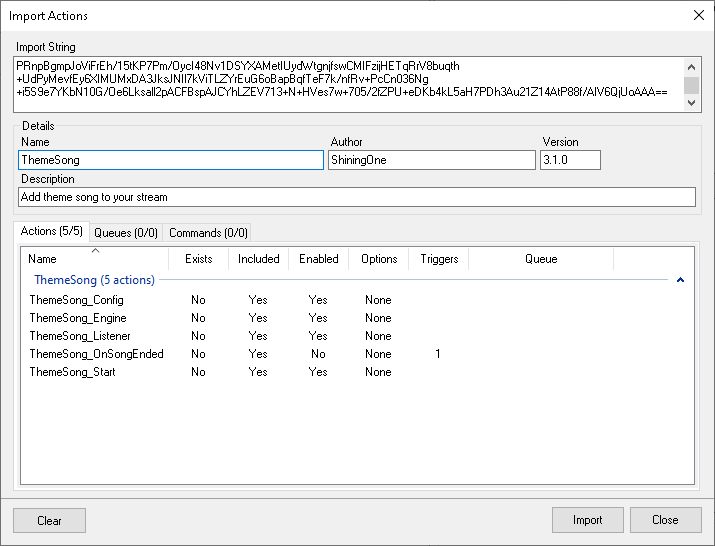
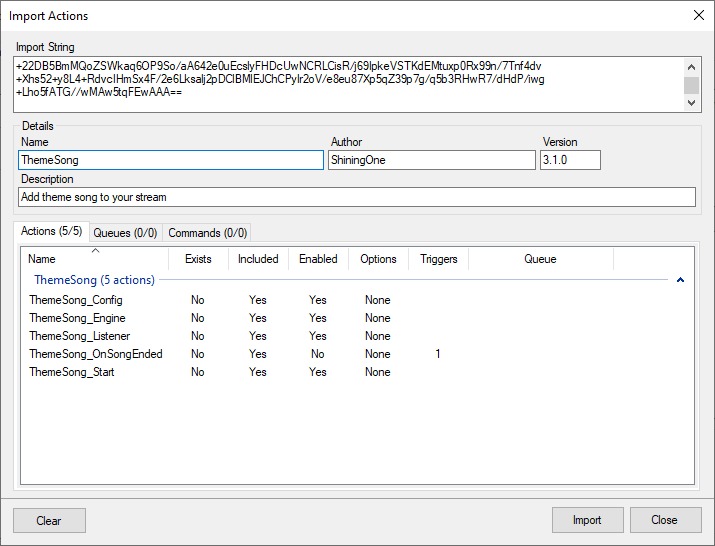
ws4 version

diff --git a/cs/ThemeSong_Engine.cs b/cs/ThemeSong_Engine.cs
@@ -4,6 +4,7 @@ using System.Threading;
 using System.Linq;
 using System.IO;
 using Newtonsoft.Json;
+using System.Collections.Generic;
 
 class OBSRequest
 {
@@ -29,142 +30,141 @@ public class CPHInline
 	[DllImport("user32.dll")]
 	static extern int GetAsyncKeyState(int key);
 	//int[] keys = {0x57, 0x41, 0x53, 0x44, 0x20}; // WASD + Space
-
+	
 	static public int obsConnectionID = 0;
 	static public string scene = "";
 	static public string source = "";
 	static public string themeSongPath = "";
 	static public int[] keys = new int[]{};
 	static public double volumePercent = 1.0;
-
+	
 	static public bool isThemeSongEnded = false;
 	static public bool isThemeSongPlaying = false;
-
+	
 	public bool Execute()
 	{
 		return true;
 	}
-
+	
 	public bool IsConfigValid()
 	{
 		obsConnectionID =  args.ContainsKey("obsConnectionID") ? Convert.ToInt32(args["obsConnectionID"].ToString()) : 0;
-
+		
 		if (!CPH.ObsIsConnected(obsConnectionID))
 		{
 			CPH.LogDebug($"{LogPrefix}Config is invalid, OBS on connection ID {obsConnectionID} is not connected.");
-			return false;
+			return false;			
 		}
 
 		if (!args.ContainsKey("themeSongSource"))
 		{
 			CPH.LogDebug($"{LogPrefix}Config is invalid, themeSongSource argument is missing.");
 			return false;
-		}
+		}			
 		source = args["themeSongSource"].ToString();
-
+		
 		if (!args.ContainsKey("themeSongPath"))
 		{
 			CPH.LogDebug($"{LogPrefix}Config is invalid, themeSongSource argument is missing.");
 			return false;
 		}
-
+		
 		themeSongPath = args["themeSongPath"].ToString();
 		if (!File.Exists(themeSongPath)) {
 			CPH.LogDebug($"{LogPrefix}Config is invalid, themeSongPath file does not exist.");
 			return false;
 		}
-
+		
 		if (args.ContainsKey("volumePercent"))
 		{
 			volumePercent = Convert.ToDouble(args["volumePercent"].ToString());
 		}
-
+		
 		if (!args.ContainsKey("keys"))
 		{
 			CPH.LogDebug($"{LogPrefix}Config is invalid, keys argument is missing.");
 			return false;
-		}
+		}		
 		keys = args["keys"].ToString().Split(',').Select(val => hexStringToIntConverter(val)).ToArray();
-
+		
 		return true;
 	}
-
+	
 	public bool GetCurrentScene()
 	{
 		scene = CPH.ObsGetCurrentScene(obsConnectionID);
-		if (scene == "")
+		if (scene == "") 
 		{
 			CPH.LogDebug($"{LogPrefix}Config is invalid, scene argument is empty.");
 			return false;
-		}
-
+		}		
+		
 		return true;
 	}
-
+	
 	public bool CreateThemeSongMediaInput()
 	{
 		var requests = new OBSRequestBatchRequests();
-
+		
 		var createInputRequest = new OBSRequest{
-			requestType = "CreateInput",
+			requestType = "CreateSource",
 			requestData = new OBSRequestData{
+				{"sourceName", source},
+				{"sourceKind", "ffmpeg_source"},
 				{"sceneName", scene},
-				{"inputName", source},
-				{"inputKind", "ffmpeg_source"},
-				{"inputSettings", new OBSMediaInputSettings{
+				{"sourceSettings", new OBSMediaInputSettings{
 				  close_when_inactive = true,
 				  hw_decode = true,
 				  local_file = themeSongPath
 				}},
-				{"sceneItemEnabled", true}
+				{"setVisible", true}
 			}
-		};
-		requests.Add(createInputRequest);
-
+		};		
+		CPH.ObsSendRaw(createInputRequest.requestType, JsonConvert.SerializeObject(createInputRequest.requestData), obsConnectionID);
+		
 		var setInputVolumeRequest = new OBSRequest{
-			requestType = "SetInputVolume",
+			requestType = "SetVolume",
 			requestData = new OBSRequestData{
-				{"inputName", source},
-				{"inputVolumeMul", volumePercent}
+				{"source", source},
+				{"volume", volumePercent}
 			}
-		};
-		requests.Add(setInputVolumeRequest);
+		};		
+		CPH.ObsSendRaw(setInputVolumeRequest.requestType, JsonConvert.SerializeObject(setInputVolumeRequest.requestData), obsConnectionID);
 
 		var sleepRequest = new OBSRequest{
 			requestType = "Sleep",
 			requestData = new OBSRequestData{
 				{"sleepMillis", 100}
 			}
-		};
-		requests.Add(sleepRequest);
+		};		
+		CPH.ObsSendRaw(sleepRequest.requestType, JsonConvert.SerializeObject(sleepRequest.requestData), obsConnectionID);
 
 		var triggerMediaInputActionRequest = new OBSRequest{
-			requestType = "TriggerMediaInputAction",
+			requestType = "PlayPauseMedia",
 			requestData = new OBSRequestData{
-				{"inputName", source},
-				{"mediaAction", "OBS_WEBSOCKET_MEDIA_INPUT_ACTION_PAUSE"}
+				{"sourceName", source},
+				{"playPause", true}
 			}
 		};
-		requests.Add(triggerMediaInputActionRequest);
-
-		string data = JsonConvert.SerializeObject(requests);
-
-		CPH.ObsSendBatchRaw(data, false, 0, obsConnectionID);
-
+		CPH.ObsSendRaw(triggerMediaInputActionRequest.requestType, JsonConvert.SerializeObject(triggerMediaInputActionRequest.requestData), obsConnectionID);
+		
 		return true;
 	}
-
+	
 	public bool RemoveThemeSongMediaInput()
-	{
-		var removeInputRequestData = new OBSRequestData{
-			{"inputName", source}
+	{		
+		var deleteSceneItemRequestData = new OBSRequestData{
+			{"scene", scene},
+			{"item", new Dictionary<string,string>{
+				{"name", source}
+			}}
 		};
-
-		CPH.ObsSendRaw("RemoveInput", JsonConvert.SerializeObject(removeInputRequestData), obsConnectionID);
-
+		
+		CPH.ObsSendRaw("DeleteSceneItem", JsonConvert.SerializeObject(deleteSceneItemRequestData), obsConnectionID);
+		
 		return true;
 	}
-
+	
 	public bool OnSongEnd()
 	{
 		isThemeSongEnded = true;
@@ -174,7 +174,7 @@ public class CPHInline
 	public bool Listener()
 	{
 		isThemeSongEnded = false;
-
+		
 		while (!isThemeSongEnded) {
 			bool isDown = isDownCheck(keys);
 			bool isPressed = isPressedCheck(keys);
@@ -190,10 +190,10 @@ public class CPHInline
 			};
 			Thread.Sleep(100);
 		}
-
+		
 		return true;
 	}
-
+	
 	bool isPressedCheck(int[] keys) {
 		int state = 0;
 
@@ -212,7 +212,7 @@ public class CPHInline
 
 		return Convert.ToBoolean(state << 1);
 	}
-
+	
 	int hexStringToIntConverter(string value)
 	{
 		return int.Parse(value.Replace("0x", ""), System.Globalization.NumberStyles.HexNumber);

diff --git a/README.md b/README.md
@@ -1,4 +1,4 @@
-# ThemeSong
+# ThemeSong (WebSocket 4 version)
 [![Tutorial](ThemeSong_thumbnail.png)](https://www.youtube.com/watch?v=4YlquqggxPw)
 
 ## Add Theme song to your stream.
